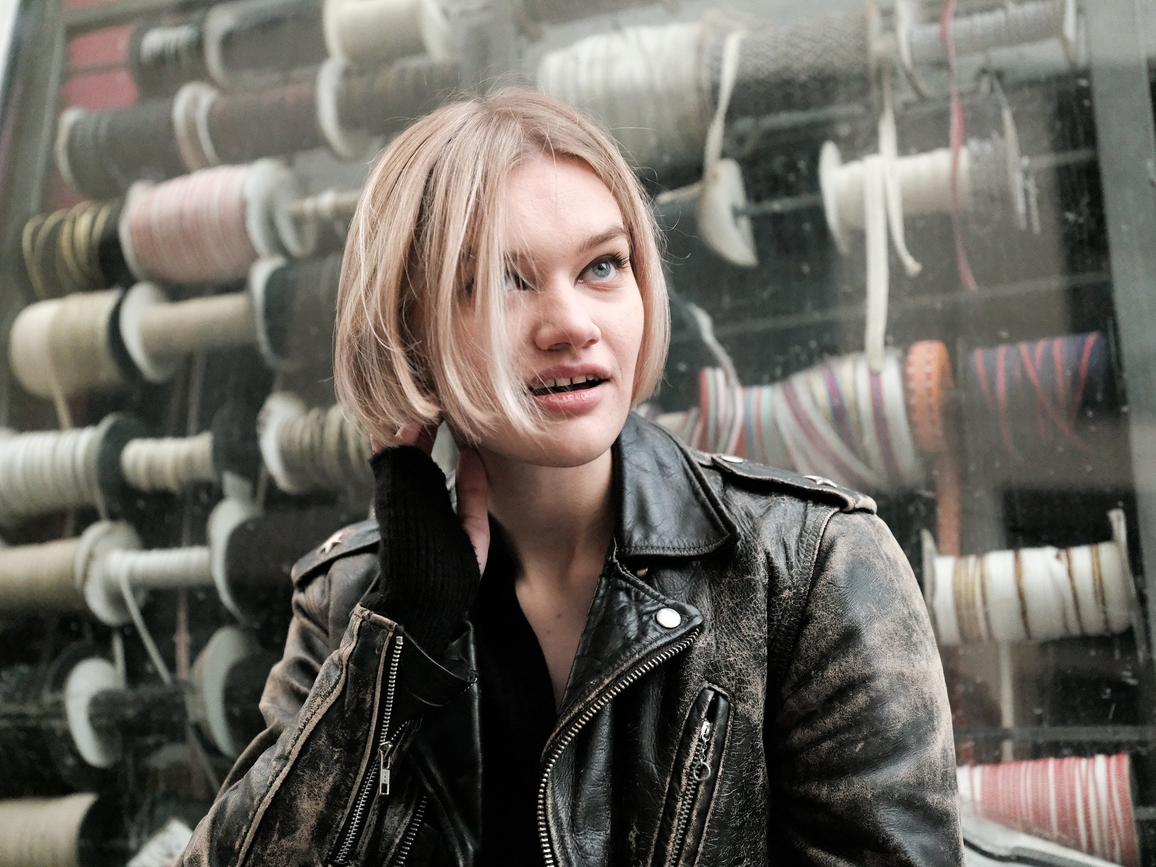
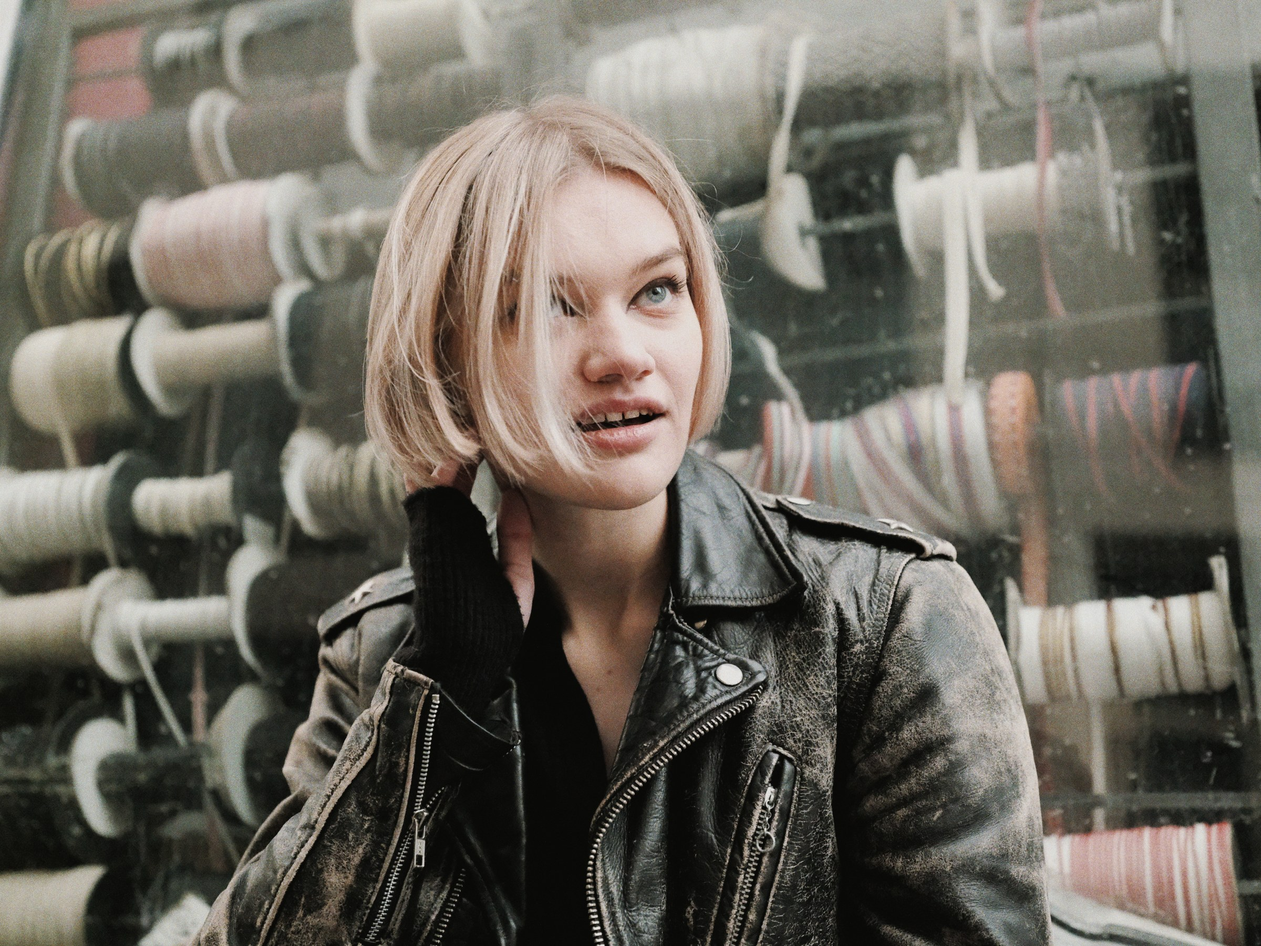
Publish Paris photo swap and MBPFW portrait

diff --git a/index.html b/index.html
@@ -82,13 +82,17 @@
       .mbpfw-deck{margin:8px 0 28px}
       .mbpfw-gallery{gap:22px 10px}
     }
-  .photo-kind,.photo-caption{display:none}.photo-frame{cursor:zoom-in}.lightbox{width:min(94vw,1200px);height:min(92vh,900px);max-width:none;max-height:none;margin:auto;padding:54px 24px 24px;border:1px solid rgba(255,255,255,.16);background:rgba(18,18,18,.97);color:#fff}.lightbox::backdrop{background:rgba(12,12,12,.9);backdrop-filter:blur(5px)}.lightbox img{display:block;max-width:100%;max-height:100%;width:auto;height:auto;object-fit:contain;margin:auto}.lightbox button{position:absolute;top:10px;right:18px;border:0;background:none;color:#fff;font-size:30px;line-height:1;cursor:pointer}.lightbox-caption{position:absolute;top:21px;left:24px;color:#ccc;font-size:9px;letter-spacing:.16em;text-transform:uppercase}.measurements{display:grid;grid-template-columns:repeat(5,minmax(0,1fr));gap:12px;border-top:1px solid var(--line);padding:20px 0 0;margin:28px 0 0}.measurements div{display:grid;gap:6px}.measurements dt{font-size:8px;letter-spacing:.16em;text-transform:uppercase;color:var(--muted)}.measurements dd{margin:0;color:var(--ink);font-family:var(--serif);font-size:20px}.contact-links{display:grid;justify-items:end;gap:12px;font-size:11px;letter-spacing:.04em}.contact-links a{border-bottom:1px solid var(--line);padding-bottom:5px}.contact-links a:hover{border-color:var(--ink)}@media(max-width:760px){.lightbox{width:100vw;height:100dvh;padding:60px 12px 18px;border:0}.lightbox-caption{left:14px;top:21px}.measurements{grid-template-columns:repeat(3,minmax(0,1fr));row-gap:20px}.contact-links{justify-items:start}}</style>
+    .photo-kind,.photo-caption{display:none}.photo-frame{cursor:zoom-in}.lightbox{width:min(94vw,1200px);height:min(92vh,900px);max-width:none;max-height:none;margin:auto;padding:54px 24px 24px;border:1px solid rgba(255,255,255,.16);background:rgba(18,18,18,.97);color:#fff}.lightbox::backdrop{background:rgba(12,12,12,.9);backdrop-filter:blur(5px)}.lightbox img{display:block;max-width:100%;max-height:100%;width:auto;height:auto;object-fit:contain;margin:auto}.lightbox button{position:absolute;top:10px;right:18px;border:0;background:none;color:#fff;font-size:30px;line-height:1;cursor:pointer}.lightbox-caption{position:absolute;top:21px;left:24px;color:#ccc;font-size:9px;letter-spacing:.16em;text-transform:uppercase}.measurements{display:grid;grid-template-columns:repeat(5,minmax(0,1fr));gap:12px;border-top:1px solid var(--line);padding:20px 0 0;margin:28px 0 0}.measurements div{display:grid;gap:6px}.measurements dt{font-size:8px;letter-spacing:.16em;text-transform:uppercase;color:var(--muted)}.measurements dd{margin:0;color:var(--ink);font-family:var(--serif);font-size:20px}.contact-links{display:grid;justify-items:end;gap:12px;font-size:11px;letter-spacing:.04em}.contact-links a{border-bottom:1px solid var(--line);padding-bottom:5px}.contact-links a:hover{border-color:var(--ink)}
+    .polaroids-section{margin-top:104px;padding:28px 0 0;border-top:1px solid var(--line)}.polaroids-heading{display:flex;justify-content:space-between;align-items:end;gap:24px}.polaroids-heading h2{margin:8px 0 0;font-family:var(--serif);font-size:clamp(34px,5vw,58px);font-weight:400;letter-spacing:-.04em}.polaroids-note{max-width:230px;margin:0 0 3px;color:var(--muted);font-size:10px;line-height:1.7;text-align:right;letter-spacing:.08em;text-transform:uppercase}.polaroid-carousel{display:grid;grid-template-columns:48px minmax(0,1fr) 48px;align-items:center;gap:18px;margin-top:34px}.polaroid-window{overflow:hidden;aspect-ratio:4/3;background:#eeece7;border:1px solid var(--line);touch-action:pan-y;user-select:none}.polaroid-track{display:flex;width:500%;height:100%;transition:transform .55s cubic-bezier(.22,.7,.22,1)}.polaroid-slide{display:grid;flex:0 0 20%;place-items:center;min-width:0;height:100%;padding:clamp(12px,3vw,42px)}.polaroid-slide .photo-frame{width:100%;height:100%;min-height:0;aspect-ratio:auto;background:#f8f7f4;border:12px solid #fff;box-shadow:0 10px 30px rgba(37,34,28,.12)}.polaroid-slide .photo-frame::before{display:none}.polaroid-slide .photo-frame>img{object-fit:contain}.polaroid-arrow{display:grid;place-items:center;width:46px;height:46px;border:1px solid var(--line);border-radius:50%;background:transparent;color:var(--ink);font-size:20px;cursor:pointer;transition:background .2s,color .2s,border-color .2s}.polaroid-arrow:hover{background:var(--ink);border-color:var(--ink);color:var(--paper)}.polaroid-controls{display:flex;justify-content:center;align-items:center;gap:22px;margin-top:20px}.polaroid-count{min-width:50px;color:var(--muted);font-size:9px;letter-spacing:.14em;text-align:center}.polaroid-dots{display:flex;gap:8px}.polaroid-dot{width:6px;height:6px;padding:0;border:0;border-radius:50%;background:#d2cec6;cursor:pointer}.polaroid-dot[aria-current="true"]{background:var(--ink)}
+    @media(max-width:760px){.lightbox{width:100vw;height:100dvh;padding:60px 12px 18px;border:0}.lightbox-caption{left:14px;top:21px}.measurements{grid-template-columns:repeat(3,minmax(0,1fr));row-gap:20px}.contact-links{justify-items:start}.nav{overflow-x:auto;scrollbar-width:none}.nav::-webkit-scrollbar{display:none}.polaroids-section{margin-top:68px;padding-top:22px}.polaroids-heading{align-items:start;flex-direction:column;gap:10px}.polaroids-note{text-align:left}.polaroid-carousel{grid-template-columns:30px minmax(0,1fr) 30px;gap:7px;margin-top:23px}.polaroid-window{aspect-ratio:4/5}.polaroid-arrow{width:30px;height:30px;font-size:16px}.polaroid-slide{padding:10px}.polaroid-slide .photo-frame{border-width:8px}.polaroid-controls{margin-top:16px}}
+    @media(prefers-reduced-motion:reduce){.polaroid-track{transition:none}}
+  </style>
 </head>
 <body>
   <header class="shell masthead" id="top">
     <a class="wordmark" href="#top" aria-label="Back to top">ALI SAVI</a>
     <div class="header-meta"><span>Model portfolio</span><i class="dot"></i><span>Editorial · Runway · Commercial</span></div>
-    <nav class="nav" aria-label="Main navigation"><a href="#portfolio">Portfolio</a><a href="#runway">Runway</a><a href="#about">About</a><a href="#contact">Contact</a><a class="booking-link" href="#contact">Booking enquiries&nbsp; ↗</a></nav>
+    <nav class="nav" aria-label="Main navigation"><a href="#portfolio">Portfolio</a><a href="#polaroids">Polaroids</a><a href="#runway">Runway</a><a href="#about">About</a><a href="#contact">Contact</a><a class="booking-link" href="#contact">Booking enquiries&nbsp; ↗</a></nav>
   </header>
   <main class="shell">
     <section class="intro" aria-labelledby="intro-title">
@@ -96,40 +100,58 @@
       <div class="intro-side"><p><strong>ALI SAVI</strong></p><p>Model · Editorial · Commercial</p></div>
     </section>
     <section class="gallery mosaic-gallery" id="portfolio" aria-label="Portfolio photographs">
-      <article class="photo-card"><div class="photo-frame"><span class="photo-index">01 / 23</span><img src="assets/portrait-bw.png" alt="Black and white portrait in a leather jacket"></div><div class="photo-kind">01 — Portrait</div><div class="photo-caption">Headshot <small>Beauty</small></div></article>
-      <article class="photo-card"><div class="photo-frame"><span class="photo-index">02 / 23</span><img src="second-look-bw-v2.jpg" alt="Black and white close-up portrait with a dark jacket and striped knit"></div><div class="photo-kind">02 — Portrait</div><div class="photo-caption">Monochrome portrait <small>Beauty</small></div></article>
-      <article class="photo-card"><div class="photo-frame"><span class="photo-index">03 / 23</span><img src="third-look-bw.jpg" alt="Full-length black and white fashion look in a leather jacket and shorts"></div><div class="photo-kind">03 — Editorial</div><div class="photo-caption">Leather study <small>Studio</small></div></article>
-      <article class="photo-card"><div class="photo-frame"><span class="photo-index">04 / 23</span><img src="group2-look1.jpg" alt="Seated fashion portrait in a camel coat and knitwear"></div><div class="photo-kind">04 — Editorial</div><div class="photo-caption">Soft structure <small>Fashion</small></div></article>
-      <article class="photo-card"><div class="photo-frame"><span class="photo-index">05 / 23</span><img src="editorial-05-bw.jpg" alt="Black and white fashion portrait in a bent pose and heels"></div><div class="photo-kind">05 — Editorial</div><div class="photo-caption">A study in form <small>Studio</small></div></article><article class="photo-card"><div class="photo-frame"><span class="photo-index">06 / 23</span><img src="editorial-06-bw.jpg" alt="Black and white portrait in a sculptural black blazer"></div><div class="photo-kind">06 — Editorial</div><div class="photo-caption">Sculptural tailoring <small>Studio</small></div></article>
-      <article class="photo-card"><div class="photo-frame"><span class="photo-index">07 / 23</span><img src="group2-look3.jpg" alt="Full-length fashion portrait in a camel blazer and shorts"></div><div class="photo-kind">07 — Commercial</div><div class="photo-caption">The full look <small>Campaign</small></div></article>
+      <article class="photo-card"><div class="photo-frame"><span class="photo-index">01 / 24</span><img src="assets/portrait-bw.png" alt="Black and white portrait in a leather jacket"></div><div class="photo-kind">01 — Portrait</div><div class="photo-caption">Headshot <small>Beauty</small></div></article>
+      <article class="photo-card"><div class="photo-frame"><span class="photo-index">02 / 24</span><img src="second-look-bw-v2.jpg" alt="Black and white close-up portrait with a dark jacket and striped knit"></div><div class="photo-kind">02 — Portrait</div><div class="photo-caption">Monochrome portrait <small>Beauty</small></div></article>
+      <article class="photo-card"><div class="photo-frame"><span class="photo-index">03 / 24</span><img src="third-look-bw.jpg" alt="Full-length black and white fashion look in a leather jacket and shorts"></div><div class="photo-kind">03 — Editorial</div><div class="photo-caption">Leather study <small>Studio</small></div></article>
+      <article class="photo-card"><div class="photo-frame"><span class="photo-index">04 / 24</span><img src="group2-look1.jpg" alt="Seated fashion portrait in a camel coat and knitwear"></div><div class="photo-kind">04 — Editorial</div><div class="photo-caption">Soft structure <small>Fashion</small></div></article>
+      <article class="photo-card"><div class="photo-frame"><span class="photo-index">05 / 24</span><img src="editorial-05-bw.jpg" alt="Black and white fashion portrait in a bent pose and heels"></div><div class="photo-kind">05 — Editorial</div><div class="photo-caption">A study in form <small>Studio</small></div></article><article class="photo-card"><div class="photo-frame"><span class="photo-index">06 / 24</span><img src="editorial-06-bw.jpg" alt="Black and white portrait in a sculptural black blazer"></div><div class="photo-kind">06 — Editorial</div><div class="photo-caption">Sculptural tailoring <small>Studio</small></div></article>
+      <article class="photo-card"><div class="photo-frame"><span class="photo-index">07 / 24</span><img src="group2-look3.jpg" alt="Full-length fashion portrait in a camel blazer and shorts"></div><div class="photo-kind">07 — Commercial</div><div class="photo-caption">The full look <small>Campaign</small></div></article>
+    </section>
+    <section class="polaroids-section" id="polaroids" aria-labelledby="polaroids-title">
+      <div class="polaroids-heading"><div><span class="kicker">Digitals · 2026</span><h2 id="polaroids-title">Polaroids.</h2></div><p class="polaroids-note">A closer look, frame by frame.</p></div>
+      <div class="polaroid-carousel" role="group" aria-roledescription="carousel" aria-label="Polaroid photo gallery">
+        <button class="polaroid-arrow" type="button" data-step="-1" aria-label="Previous photo">‹</button>
+        <div class="polaroid-window" tabindex="0" aria-label="Polaroid gallery. Use left and right arrow keys to browse.">
+          <div class="polaroid-track">
+            <article class="polaroid-slide" role="group" aria-roledescription="slide" aria-label="1 of 5"><div class="photo-frame"><img src="assets/polaroid-01.jpg" alt="Full-length model digitals in a black strapless top and heels" loading="lazy"></div></article>
+            <article class="polaroid-slide" role="group" aria-roledescription="slide" aria-label="2 of 5"><div class="photo-frame"><img src="assets/polaroid-02.jpg" alt="Full-length front pose in black model basics" loading="lazy"></div></article>
+            <article class="polaroid-slide" role="group" aria-roledescription="slide" aria-label="3 of 5"><div class="photo-frame"><img src="assets/polaroid-03.jpg" alt="Three-quarter pose in black model basics" loading="lazy"></div></article>
+            <article class="polaroid-slide" role="group" aria-roledescription="slide" aria-label="4 of 5"><div class="photo-frame"><img src="assets/polaroid-04.jpg" alt="Side profile digitals with a short bob haircut" loading="lazy"></div></article>
+            <article class="polaroid-slide" role="group" aria-roledescription="slide" aria-label="5 of 5"><div class="photo-frame"><img src="assets/polaroid-05.jpg" alt="Side profile portrait in black model basics" loading="lazy"></div></article>
+          </div>
+        </div>
+        <button class="polaroid-arrow" type="button" data-step="1" aria-label="Next photo">›</button>
+      </div>
+      <div class="polaroid-controls"><div class="polaroid-dots" aria-label="Choose a photo"></div><span class="polaroid-count" aria-live="polite">01 / 05</span></div>
     </section>
     <section class="gallery mosaic-gallery" aria-label="Paris street photoshoot">
       <div class="set-heading"><div><span class="kicker">Street photoshoot · Paris</span><h2>Paris, in passing.</h2></div><div class="set-location">Paris, France · On location</div></div>
-      <article class="photo-card"><div class="photo-frame"><span class="photo-index">08 / 23</span><img src="paris-street-01.jpg" alt="Street portrait in a leather jacket by a Paris yarn shop window"></div><div class="photo-kind">08 — Street editorial</div><div class="photo-caption">Between the rows <small>Paris</small></div></article>
-      <article class="photo-card"><div class="photo-frame"><span class="photo-index">09 / 23</span><img src="paris-street-02-v2.jpg" alt="Candid Paris street portrait reaching toward the camera"></div><div class="photo-kind">09 — Street editorial</div><div class="photo-caption">A passing moment <small>Paris</small></div></article>
-      <article class="photo-card"><div class="photo-frame"><span class="photo-index">10 / 23</span><img src="paris-street-03-v2.jpg" alt="Model seated outside a weathered Paris doorway"></div><div class="photo-kind">10 — Street editorial</div><div class="photo-caption">At the doorway <small>Paris</small></div></article>
-      <article class="photo-card"><div class="photo-frame"><span class="photo-index">11 / 23</span><img src="paris-street-04-v2.jpg" alt="Close-up street portrait in a black coat in Paris"></div><div class="photo-kind">11 — Street editorial</div><div class="photo-caption">Quiet focus <small>Paris</small></div></article>
-      <article class="photo-card"><div class="photo-frame"><span class="photo-index">12 / 23</span><img src="paris-street-05.jpg" alt="Black and white candid street portrait in a leather jacket"></div><div class="photo-kind">12 — Street editorial</div><div class="photo-caption">In motion <small>Paris</small></div></article>
-      <article class="photo-card"><div class="photo-frame"><span class="photo-index">13 / 23</span><img src="paris-street-06.jpg" alt="Portrait in a black coat in a Paris passageway"></div><div class="photo-kind">13 — Street editorial</div><div class="photo-caption">Between streets <small>Paris</small></div></article>
-      <article class="photo-card"><div class="photo-frame"><span class="photo-index">14 / 23</span><img src="paris-street-07.jpg" alt="Black and white wide street portrait in Paris"></div><div class="photo-kind">14 — Street editorial</div><div class="photo-caption">Paris in motion <small>Paris</small></div></article>
+      <article class="photo-card"><div class="photo-frame"><span class="photo-index">08 / 24</span><img src="paris-street-01.jpg" alt="Candid portrait by a Paris yarn shop window"></div><div class="photo-kind">08 — Street editorial</div><div class="photo-caption">Between the rows <small>Paris</small></div></article>
+      <article class="photo-card"><div class="photo-frame"><span class="photo-index">09 / 24</span><img src="paris-street-02-v2.jpg" alt="Playful Paris street portrait reaching toward the camera"></div><div class="photo-kind">09 — Street editorial</div><div class="photo-caption">A passing moment <small>Paris</small></div></article>
+      <article class="photo-card"><div class="photo-frame"><span class="photo-index">10 / 24</span><img src="paris-street-03-v2.jpg" alt="Model seated outside a weathered Paris doorway"></div><div class="photo-kind">10 — Street editorial</div><div class="photo-caption">At the doorway <small>Paris</small></div></article>
+      <article class="photo-card"><div class="photo-frame"><span class="photo-index">11 / 24</span><img src="paris-street-04-v2.jpg" alt="Close-up street portrait in a black coat in Paris"></div><div class="photo-kind">11 — Street editorial</div><div class="photo-caption">Quiet focus <small>Paris</small></div></article>
+      <article class="photo-card"><div class="photo-frame"><span class="photo-index">12 / 24</span><img src="paris-street-05.jpg" alt="Black and white candid street portrait in a leather jacket"></div><div class="photo-kind">12 — Street editorial</div><div class="photo-caption">In motion <small>Paris</small></div></article>
+      <article class="photo-card"><div class="photo-frame"><span class="photo-index">13 / 24</span><img src="paris-street-06.jpg" alt="Portrait in a black coat in a Paris passageway"></div><div class="photo-kind">13 — Street editorial</div><div class="photo-caption">Between streets <small>Paris</small></div></article>
+      <article class="photo-card"><div class="photo-frame"><span class="photo-index">14 / 24</span><img src="paris-street-07.jpg" alt="Black and white wide street portrait in Paris"></div><div class="photo-kind">14 — Street editorial</div><div class="photo-caption">Paris in motion <small>Paris</small></div></article>
     </section>
     <section class="gallery mosaic-gallery runway-gallery" id="runway" aria-label="Runway in Prague">
       <div class="set-heading"><div><span class="kicker">Runway · Prague</span><h2>In the spotlight.</h2></div><div class="set-location">Prague · Runway moments</div></div>
-      <article class="photo-card"><div class="photo-frame"><span class="photo-index">15 / 23</span><img src="runway-prague-01.jpg" alt="Catwalk portrait in a sculptural fur look" loading="lazy"></div><div class="photo-kind">15 — Runway</div><div class="photo-caption">Under the lights <small>Prague</small></div></article>
-      <article class="photo-card"><div class="photo-frame"><span class="photo-index">16 / 23</span><img src="runway-prague-02.jpg" alt="A runway look emerging from the audience" loading="lazy"></div><div class="photo-kind">16 — Runway</div><div class="photo-caption">The entrance <small>Prague</small></div></article>
-      <article class="photo-card"><div class="photo-frame"><span class="photo-index">17 / 23</span><img src="runway-prague-03.jpg" alt="Avant-garde runway look in a designer atelier" loading="lazy"></div><div class="photo-kind">17 — Runway</div><div class="photo-caption">In the atelier <small>Prague</small></div></article>
+      <article class="photo-card"><div class="photo-frame"><span class="photo-index">15 / 24</span><img src="runway-prague-01.jpg" alt="Catwalk portrait in a sculptural fur look" loading="lazy"></div><div class="photo-kind">15 — Runway</div><div class="photo-caption">Under the lights <small>Prague</small></div></article>
+      <article class="photo-card"><div class="photo-frame"><span class="photo-index">16 / 24</span><img src="runway-prague-02.jpg" alt="A runway look emerging from the audience" loading="lazy"></div><div class="photo-kind">16 — Runway</div><div class="photo-caption">The entrance <small>Prague</small></div></article>
+      <article class="photo-card"><div class="photo-frame"><span class="photo-index">17 / 24</span><img src="runway-prague-03.jpg" alt="Avant-garde runway look in a designer atelier" loading="lazy"></div><div class="photo-kind">17 — Runway</div><div class="photo-caption">In the atelier <small>Prague</small></div></article>
     </section>
     <section class="mbpfw-section" aria-labelledby="mbpfw-title">
       <div class="mbpfw-topline"><span>Ali Savi · Runway</span><span>Prague / 2026</span></div>
       <div class="mbpfw-title-row"><div><span class="mbpfw-eyebrow">A fashion week moment</span><h2 id="mbpfw-title">Mercedes-Benz<br><em>Prague Fashion Week</em></h2></div><div class="mbpfw-date"><strong>FW26</strong><span>24 — 26 April<br>Prague, Czech Republic</span></div></div>
       <p class="mbpfw-deck">A study in presence, backstage ritual and runway light — captured during Mercedes-Benz Prague Fashion Week.</p>
       <div class="gallery mosaic-gallery mbpfw-gallery" aria-label="Mercedes-Benz Prague Fashion Week 2026 photos">
-        <article class="photo-card"><div class="photo-frame"><span class="photo-index">18 / 23</span><img src="mbpfw-prague-01.jpg" alt="Backstage portrait before a Prague fashion show" loading="lazy"></div><div class="photo-kind">18 — Backstage</div><div class="photo-caption">Before the lights <small>MBPFW</small></div></article>
-        <article class="photo-card"><div class="photo-frame"><span class="photo-index">19 / 23</span><img src="mbpfw-prague-02.jpg" alt="Dramatic monochrome backstage portrait at a fashion show" loading="lazy"></div><div class="photo-kind">19 — Backstage</div><div class="photo-caption">A quiet moment <small>MBPFW</small></div></article>
-        <article class="photo-card"><div class="photo-frame"><span class="photo-index">20 / 23</span><img src="mbpfw-prague-03.jpg" alt="Model walking the runway in a sculptural fringe look" loading="lazy"></div><div class="photo-kind">20 — Runway</div><div class="photo-caption">The silhouette <small>MBPFW</small></div></article>
-        <article class="photo-card"><div class="photo-frame"><span class="photo-index">21 / 23</span><img src="mbpfw-prague-04.jpg" alt="Motion portrait of a model in a fringed runway look" loading="lazy"></div><div class="photo-kind">21 — Runway</div><div class="photo-caption">In motion <small>MBPFW</small></div></article>
-        <article class="photo-card"><div class="photo-frame"><span class="photo-index">22 / 23</span><img src="mbpfw-prague-05.jpg" alt="Model and designer backstage during the show" loading="lazy"></div><div class="photo-kind">22 — Backstage</div><div class="photo-caption">The final details <small>MBPFW</small></div></article>
-        <article class="photo-card"><div class="photo-frame"><span class="photo-index">23 / 23</span><img src="mbpfw-prague-06.jpg" alt="Monochrome model portrait in a white look" loading="lazy"></div><div class="photo-kind">23 — Portrait</div><div class="photo-caption">After the show <small>MBPFW</small></div></article>
+        <article class="photo-card"><div class="photo-frame"><span class="photo-index">18 / 24</span><img src="mbpfw-prague-01.jpg" alt="Backstage portrait before a Prague fashion show" loading="lazy"></div><div class="photo-kind">18 — Backstage</div><div class="photo-caption">Before the lights <small>MBPFW</small></div></article>
+        <article class="photo-card"><div class="photo-frame"><span class="photo-index">19 / 24</span><img src="mbpfw-prague-02.jpg" alt="Dramatic monochrome backstage portrait at a fashion show" loading="lazy"></div><div class="photo-kind">19 — Backstage</div><div class="photo-caption">A quiet moment <small>MBPFW</small></div></article>
+        <article class="photo-card"><div class="photo-frame"><span class="photo-index">20 / 24</span><img src="mbpfw-prague-03.jpg" alt="Model walking the runway in a sculptural fringe look" loading="lazy"></div><div class="photo-kind">20 — Runway</div><div class="photo-caption">The silhouette <small>MBPFW</small></div></article>
+        <article class="photo-card"><div class="photo-frame"><span class="photo-index">21 / 24</span><img src="mbpfw-prague-04.jpg" alt="Motion portrait of a model in a fringed runway look" loading="lazy"></div><div class="photo-kind">21 — Runway</div><div class="photo-caption">In motion <small>MBPFW</small></div></article>
+        <article class="photo-card"><div class="photo-frame"><span class="photo-index">22 / 24</span><img src="mbpfw-prague-05.jpg" alt="Model and designer backstage during the show" loading="lazy"></div><div class="photo-kind">22 — Backstage</div><div class="photo-caption">The final details <small>MBPFW</small></div></article>
+        <article class="photo-card"><div class="photo-frame"><span class="photo-index">23 / 24</span><img src="mbpfw-prague-06.jpg" alt="Monochrome model portrait in a white look" loading="lazy"></div><div class="photo-kind">23 — Portrait</div><div class="photo-caption">After the show <small>MBPFW</small></div></article>
+        <article class="photo-card"><div class="photo-frame"><span class="photo-index">24 / 24</span><img src="mbpfw-prague-07.jpg" alt="Black and white backstage portrait in dramatic side light" loading="lazy"></div><div class="photo-kind">24 — Backstage</div><div class="photo-caption">After hours <small>MBPFW</small></div></article>
       </div>
       <a class="mbpfw-link" href="https://www.mbpfw.com/en/schedule/?season=fw26" target="_blank" rel="noreferrer">Official FW26 programme <span>↗</span></a>
     </section>
@@ -140,7 +162,7 @@
     <section class="contact" id="contact"><div><span class="section-index">02 · Get in touch</span><h2>Let’s make something.</h2><p>For bookings, castings, and collaborations.</p></div><div class="contact-links"><a href="mailto:alisa.savina.02@outlook.com">alisa.savina.02@outlook.com</a><a href="https://www.instagram.com/alisafierra/" target="_blank" rel="noreferrer">Instagram · @alisafierra ↗</a></div></section>
   </main>
   <footer class="shell footer"><span>© <span id="year">2026</span> Ali Savi</span><a href="#top">Back to top ↑</a></footer>
-  <dialog class="lightbox" id="photo-lightbox" aria-label="Photograph enlarged"><button type="button" aria-label="Close enlarged photograph">×</button><span class="lightbox-caption" aria-hidden="true"></span><img alt=""></dialog><script>document.getElementById('year').textContent=new Date().getFullYear();const photoLightbox=document.getElementById('photo-lightbox'),enlargedPhoto=photoLightbox.querySelector('img'),lightboxCaption=photoLightbox.querySelector('.lightbox-caption');function openPhoto(frame){const photo=frame.querySelector('img');if(!photo)return;enlargedPhoto.src=photo.currentSrc||photo.src;enlargedPhoto.alt=photo.alt;lightboxCaption.textContent=photo.alt;photoLightbox.showModal()}document.querySelectorAll('.photo-frame').forEach(frame=>{frame.tabIndex=0;frame.setAttribute('role','button');frame.setAttribute('aria-label','View larger: '+(frame.querySelector('img')?.alt||'photo'));frame.addEventListener('click',()=>openPhoto(frame));frame.addEventListener('keydown',event=>{if(event.key==='Enter'||event.key===' '){event.preventDefault();openPhoto(frame)}})});photoLightbox.querySelector('button').addEventListener('click',()=>photoLightbox.close());photoLightbox.addEventListener('click',event=>{if(event.target===photoLightbox)photoLightbox.close()});photoLightbox.addEventListener('close',()=>enlargedPhoto.removeAttribute('src'));</script>
+  <dialog class="lightbox" id="photo-lightbox" aria-label="Photograph enlarged"><button type="button" aria-label="Close enlarged photograph">×</button><span class="lightbox-caption" aria-hidden="true"></span><img alt=""></dialog><script>document.getElementById('year').textContent=new Date().getFullYear();const photoLightbox=document.getElementById('photo-lightbox'),enlargedPhoto=photoLightbox.querySelector('img'),lightboxCaption=photoLightbox.querySelector('.lightbox-caption');function openPhoto(frame){const photo=frame.querySelector('img');if(!photo)return;enlargedPhoto.src=photo.currentSrc||photo.src;enlargedPhoto.alt=photo.alt;lightboxCaption.textContent=photo.alt;photoLightbox.showModal()}document.querySelectorAll('.photo-frame').forEach(frame=>{frame.tabIndex=0;frame.setAttribute('role','button');frame.setAttribute('aria-label','View larger: '+(frame.querySelector('img')?.alt||'photo'));frame.addEventListener('click',()=>openPhoto(frame));frame.addEventListener('keydown',event=>{if(event.key==='Enter'||event.key===' '){event.preventDefault();openPhoto(frame)}})});photoLightbox.querySelector('button').addEventListener('click',()=>photoLightbox.close());photoLightbox.addEventListener('click',event=>{if(event.target===photoLightbox)photoLightbox.close()});photoLightbox.addEventListener('close',()=>enlargedPhoto.removeAttribute('src'));const polaroidCarousel=document.querySelector('.polaroid-carousel'),polaroidTrack=polaroidCarousel.querySelector('.polaroid-track'),polaroidSlides=[...polaroidTrack.children],polaroidCount=document.querySelector('.polaroid-count'),polaroidDots=document.querySelector('.polaroid-dots');let polaroidIndex=0;polaroidTrack.style.width=`${polaroidSlides.length*100}%`;polaroidSlides.forEach(slide=>slide.style.flexBasis=`${100/polaroidSlides.length}%`);function showPolaroid(index){polaroidIndex=(index+polaroidSlides.length)%polaroidSlides.length;polaroidTrack.style.transform=`translateX(-${polaroidIndex*100/polaroidSlides.length}%)`;polaroidSlides.forEach((slide,i)=>{slide.setAttribute('aria-hidden',String(i!==polaroidIndex));slide.inert=i!==polaroidIndex});polaroidCount.textContent=`${String(polaroidIndex+1).padStart(2,'0')} / ${String(polaroidSlides.length).padStart(2,'0')}`;[...polaroidDots.children].forEach((dot,i)=>dot.setAttribute('aria-current',String(i===polaroidIndex)))}polaroidSlides.forEach((_,i)=>{const dot=document.createElement('button');dot.type='button';dot.className='polaroid-dot';dot.setAttribute('aria-label',`Go to photo ${i+1}`);dot.addEventListener('click',()=>showPolaroid(i));polaroidDots.append(dot)});polaroidCarousel.querySelectorAll('[data-step]').forEach(button=>button.addEventListener('click',()=>showPolaroid(polaroidIndex+Number(button.dataset.step))));const polaroidWindow=polaroidCarousel.querySelector('.polaroid-window');polaroidWindow.addEventListener('keydown',event=>{if(event.key==='ArrowRight'){event.preventDefault();showPolaroid(polaroidIndex+1)}if(event.key==='ArrowLeft'){event.preventDefault();showPolaroid(polaroidIndex-1)}});let polaroidTouchStart=null,polaroidLastSwipe=0;polaroidWindow.addEventListener('click',event=>{if(Date.now()-polaroidLastSwipe<500){event.preventDefault();event.stopImmediatePropagation()}},true);polaroidWindow.addEventListener('pointerdown',event=>{polaroidTouchStart=event.clientX});polaroidWindow.addEventListener('pointerup',event=>{if(polaroidTouchStart===null)return;const delta=event.clientX-polaroidTouchStart;if(Math.abs(delta)>45){polaroidLastSwipe=Date.now();showPolaroid(polaroidIndex+(delta<0?1:-1))};polaroidTouchStart=null});polaroidWindow.addEventListener('pointercancel',()=>polaroidTouchStart=null);showPolaroid(0);</script>
 </body>
 </html>
 
